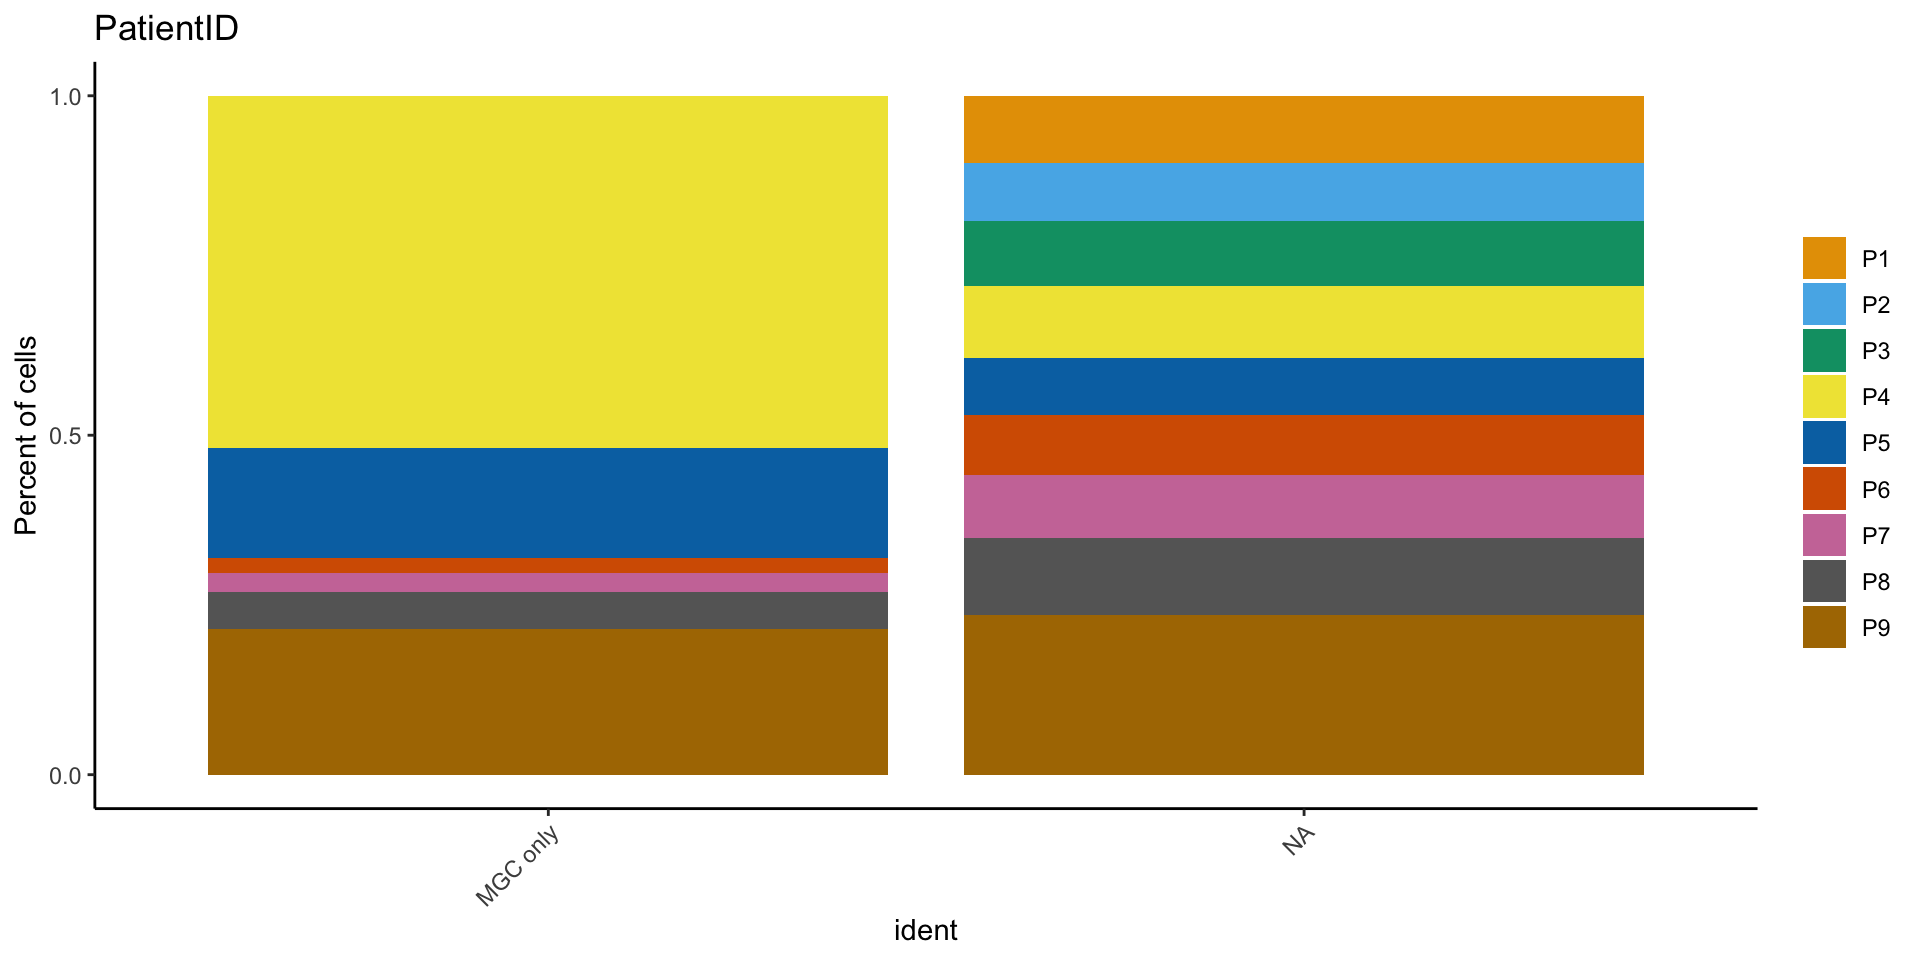
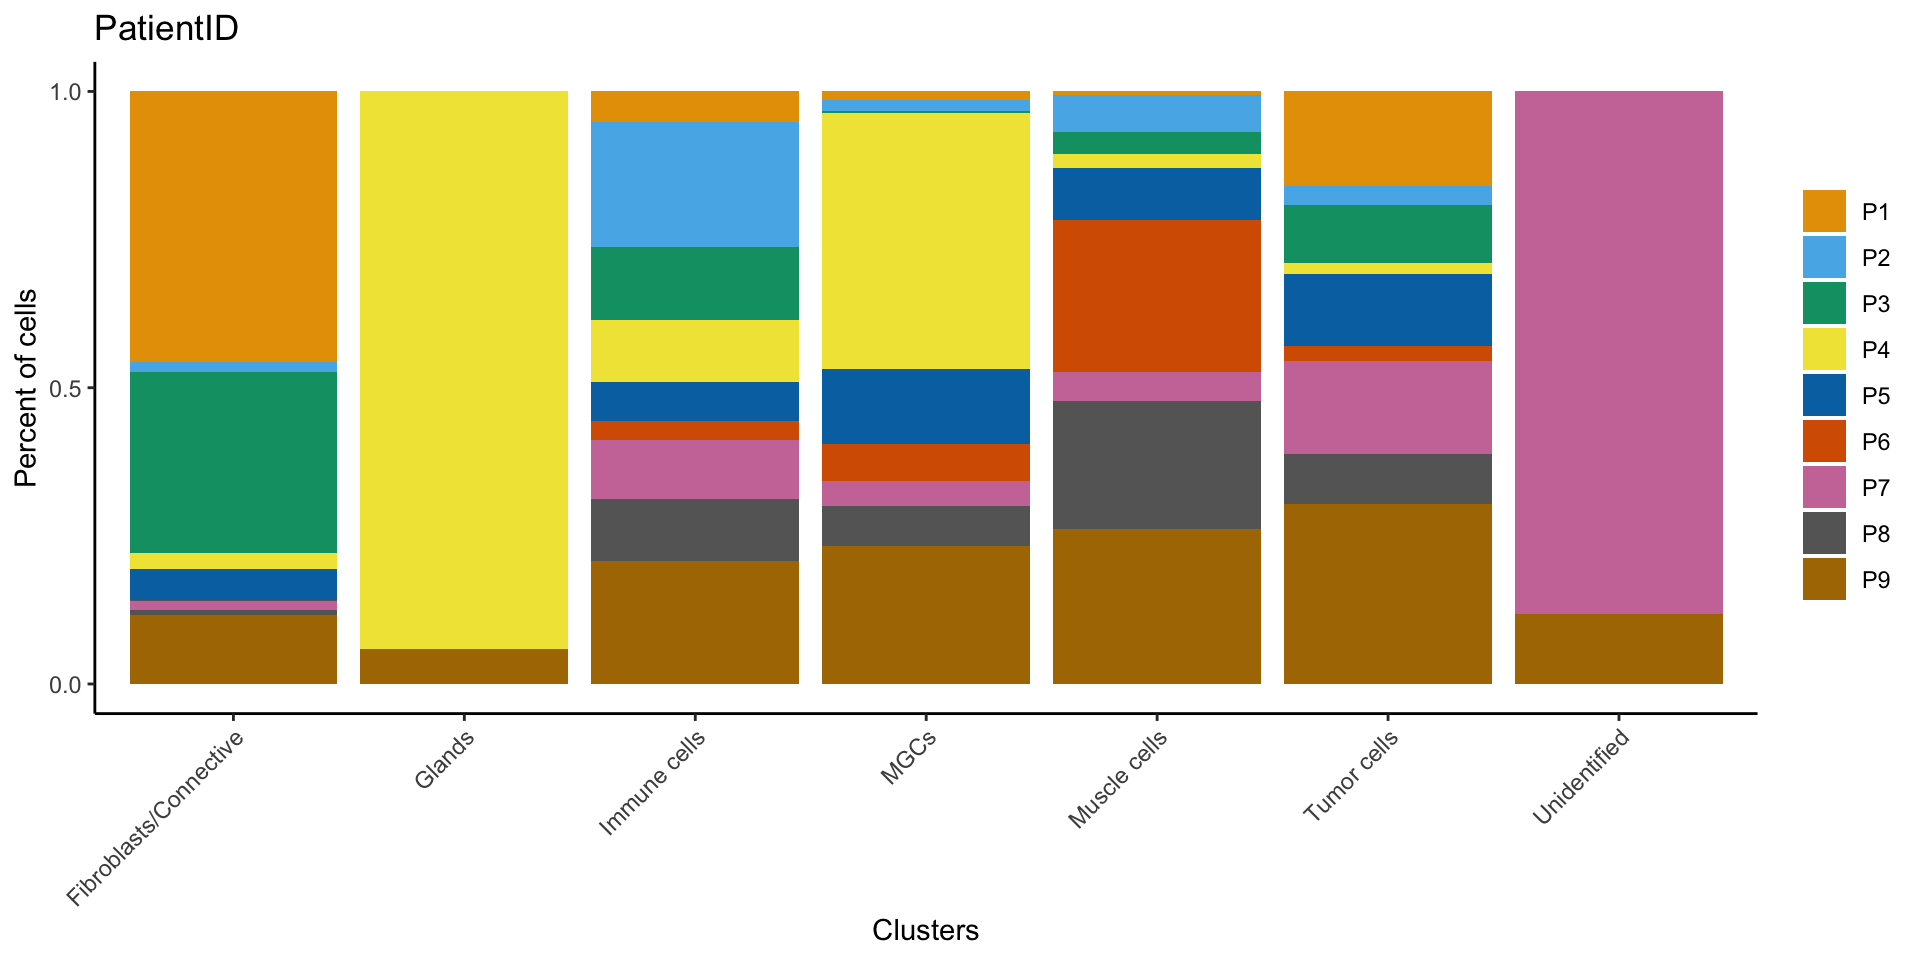
Update Visium Folder

diff --git a/Visium/index.html b/Visium/index.html
@@ -212,62 +212,62 @@ code span.wa { color: #60a0b0; font-weight: bold; font-style: italic; } /* Warni
 <span id="cb8-4"><a href="#cb8-4" aria-hidden="true" tabindex="-1"></a>Slide_B1<span class="sc">$</span>Batch <span class="ot">&lt;-</span> <span class="st">'B2'</span></span>
 <span id="cb8-5"><a href="#cb8-5" aria-hidden="true" tabindex="-1"></a>Slide_D1<span class="sc">$</span>Batch <span class="ot">&lt;-</span> <span class="st">'B3'</span></span>
 <span id="cb8-6"><a href="#cb8-6" aria-hidden="true" tabindex="-1"></a>Slide_C1<span class="sc">$</span>Batch <span class="ot">&lt;-</span> <span class="st">'B4'</span></span>
-<span id="cb8-7"><a href="#cb8-7" aria-hidden="true" tabindex="-1"></a>T4_S1_05H04724_09<span class="sc">$</span>Batch <span class="ot">&lt;-</span> <span class="st">'B5'</span></span>
-<span id="cb8-8"><a href="#cb8-8" aria-hidden="true" tabindex="-1"></a>T4_S2_10H02587_08<span class="sc">$</span>Batch <span class="ot">&lt;-</span> <span class="st">'B6'</span></span>
-<span id="cb8-9"><a href="#cb8-9" aria-hidden="true" tabindex="-1"></a>T4_S4_16H02168_56_Zone2<span class="sc">$</span>Batch <span class="ot">&lt;-</span> <span class="st">'B7'</span></span>
-<span id="cb8-10"><a href="#cb8-10" aria-hidden="true" tabindex="-1"></a>Test9_S2_13H02127_09<span class="sc">$</span>Batch <span class="ot">&lt;-</span> <span class="st">'B8'</span></span>
-<span id="cb8-11"><a href="#cb8-11" aria-hidden="true" tabindex="-1"></a>Test9_S1_05H00073_12<span class="sc">$</span>Batch <span class="ot">&lt;-</span> <span class="st">'B9'</span></span>
-<span id="cb8-12"><a href="#cb8-12" aria-hidden="true" tabindex="-1"></a>Test9_S3_21R00383_Zone1<span class="sc">$</span>Batch <span class="ot">&lt;-</span> <span class="st">'B10'</span></span>
-<span id="cb8-13"><a href="#cb8-13" aria-hidden="true" tabindex="-1"></a>Test9_S3_21R00383_Zone2<span class="sc">$</span>Batch <span class="ot">&lt;-</span> <span class="st">'B11'</span></span>
+<span id="cb8-7"><a href="#cb8-7" aria-hidden="true" tabindex="-1"></a>Slide_E1<span class="sc">$</span>Batch <span class="ot">&lt;-</span> <span class="st">'B5'</span></span>
+<span id="cb8-8"><a href="#cb8-8" aria-hidden="true" tabindex="-1"></a>Slide_F1<span class="sc">$</span>Batch <span class="ot">&lt;-</span> <span class="st">'B6'</span></span>
+<span id="cb8-9"><a href="#cb8-9" aria-hidden="true" tabindex="-1"></a>Slide_G1<span class="sc">$</span>Batch <span class="ot">&lt;-</span> <span class="st">'B7'</span></span>
+<span id="cb8-10"><a href="#cb8-10" aria-hidden="true" tabindex="-1"></a>Slide_H1<span class="sc">$</span>Batch <span class="ot">&lt;-</span> <span class="st">'B8'</span></span>
+<span id="cb8-11"><a href="#cb8-11" aria-hidden="true" tabindex="-1"></a>Slide_I1<span class="sc">$</span>Batch <span class="ot">&lt;-</span> <span class="st">'B9'</span></span>
+<span id="cb8-12"><a href="#cb8-12" aria-hidden="true" tabindex="-1"></a>Slide_I2<span class="sc">$</span>Batch <span class="ot">&lt;-</span> <span class="st">'B10'</span></span>
+<span id="cb8-13"><a href="#cb8-13" aria-hidden="true" tabindex="-1"></a>Slide_I3<span class="sc">$</span>Batch <span class="ot">&lt;-</span> <span class="st">'B11'</span></span>
 <span id="cb8-14"><a href="#cb8-14" aria-hidden="true" tabindex="-1"></a><span class="co">#Patient ID Metadata</span></span>
 <span id="cb8-15"><a href="#cb8-15" aria-hidden="true" tabindex="-1"></a>Slide_A1<span class="sc">$</span>PatientID <span class="ot">&lt;-</span> <span class="st">'P1'</span></span>
 <span id="cb8-16"><a href="#cb8-16" aria-hidden="true" tabindex="-1"></a>Slide_B1<span class="sc">$</span>PatientID <span class="ot">&lt;-</span> <span class="st">'P2'</span></span>
 <span id="cb8-17"><a href="#cb8-17" aria-hidden="true" tabindex="-1"></a>Slide_D1<span class="sc">$</span>PatientID <span class="ot">&lt;-</span> <span class="st">'P3'</span></span>
 <span id="cb8-18"><a href="#cb8-18" aria-hidden="true" tabindex="-1"></a>Slide_C1<span class="sc">$</span>PatientID <span class="ot">&lt;-</span> <span class="st">'P4'</span></span>
-<span id="cb8-19"><a href="#cb8-19" aria-hidden="true" tabindex="-1"></a>T4_S1_05H04724_09<span class="sc">$</span>PatientID <span class="ot">&lt;-</span> <span class="st">'P5'</span></span>
-<span id="cb8-20"><a href="#cb8-20" aria-hidden="true" tabindex="-1"></a>T4_S2_10H02587_08<span class="sc">$</span>PatientID <span class="ot">&lt;-</span> <span class="st">'P6'</span></span>
-<span id="cb8-21"><a href="#cb8-21" aria-hidden="true" tabindex="-1"></a>T4_S4_16H02168_56_Zone2<span class="sc">$</span>PatientID <span class="ot">&lt;-</span> <span class="st">'P7'</span></span>
-<span id="cb8-22"><a href="#cb8-22" aria-hidden="true" tabindex="-1"></a>Test9_S2_13H02127_09<span class="sc">$</span>PatientID <span class="ot">&lt;-</span> <span class="st">'P8'</span></span>
-<span id="cb8-23"><a href="#cb8-23" aria-hidden="true" tabindex="-1"></a>Test9_S1_05H00073_12<span class="sc">$</span>PatientID <span class="ot">&lt;-</span> <span class="st">'P9'</span></span>
-<span id="cb8-24"><a href="#cb8-24" aria-hidden="true" tabindex="-1"></a>Test9_S3_21R00383_Zone1<span class="sc">$</span>PatientID <span class="ot">&lt;-</span> <span class="st">'P9'</span></span>
-<span id="cb8-25"><a href="#cb8-25" aria-hidden="true" tabindex="-1"></a>Test9_S3_21R00383_Zone2<span class="sc">$</span>PatientID <span class="ot">&lt;-</span> <span class="st">'P9'</span></span>
+<span id="cb8-19"><a href="#cb8-19" aria-hidden="true" tabindex="-1"></a>Slide_E1<span class="sc">$</span>PatientID <span class="ot">&lt;-</span> <span class="st">'P5'</span></span>
+<span id="cb8-20"><a href="#cb8-20" aria-hidden="true" tabindex="-1"></a>Slide_F1<span class="sc">$</span>PatientID <span class="ot">&lt;-</span> <span class="st">'P6'</span></span>
+<span id="cb8-21"><a href="#cb8-21" aria-hidden="true" tabindex="-1"></a>Slide_G1<span class="sc">$</span>PatientID <span class="ot">&lt;-</span> <span class="st">'P7'</span></span>
+<span id="cb8-22"><a href="#cb8-22" aria-hidden="true" tabindex="-1"></a>Slide_H1<span class="sc">$</span>PatientID <span class="ot">&lt;-</span> <span class="st">'P8'</span></span>
+<span id="cb8-23"><a href="#cb8-23" aria-hidden="true" tabindex="-1"></a>Slide_I1<span class="sc">$</span>PatientID <span class="ot">&lt;-</span> <span class="st">'P9'</span></span>
+<span id="cb8-24"><a href="#cb8-24" aria-hidden="true" tabindex="-1"></a>Slide_I2<span class="sc">$</span>PatientID <span class="ot">&lt;-</span> <span class="st">'P9'</span></span>
+<span id="cb8-25"><a href="#cb8-25" aria-hidden="true" tabindex="-1"></a>Slide_I3<span class="sc">$</span>PatientID <span class="ot">&lt;-</span> <span class="st">'P9'</span></span>
 <span id="cb8-26"><a href="#cb8-26" aria-hidden="true" tabindex="-1"></a><span class="co">#MGC Metadata</span></span>
 <span id="cb8-27"><a href="#cb8-27" aria-hidden="true" tabindex="-1"></a>Slide_A1<span class="sc">$</span>MGC <span class="ot">&lt;-</span> <span class="st">'MGC Low'</span></span>
 <span id="cb8-28"><a href="#cb8-28" aria-hidden="true" tabindex="-1"></a>Slide_B1<span class="sc">$</span>MGC <span class="ot">&lt;-</span> <span class="st">'MGC Low'</span></span>
 <span id="cb8-29"><a href="#cb8-29" aria-hidden="true" tabindex="-1"></a>Slide_D1<span class="sc">$</span>MGC <span class="ot">&lt;-</span> <span class="st">'MGC Low'</span></span>
 <span id="cb8-30"><a href="#cb8-30" aria-hidden="true" tabindex="-1"></a>Slide_C1<span class="sc">$</span>MGC <span class="ot">&lt;-</span> <span class="st">'MGC High'</span></span>
-<span id="cb8-31"><a href="#cb8-31" aria-hidden="true" tabindex="-1"></a>T4_S1_05H04724_09<span class="sc">$</span>MGC <span class="ot">&lt;-</span> <span class="st">'MGC High'</span></span>
-<span id="cb8-32"><a href="#cb8-32" aria-hidden="true" tabindex="-1"></a>T4_S2_10H02587_08<span class="sc">$</span>MGC <span class="ot">&lt;-</span> <span class="st">'MGC High'</span></span>
-<span id="cb8-33"><a href="#cb8-33" aria-hidden="true" tabindex="-1"></a>T4_S4_16H02168_56_Zone2<span class="sc">$</span>MGC <span class="ot">&lt;-</span> <span class="st">'MGC High'</span></span>
-<span id="cb8-34"><a href="#cb8-34" aria-hidden="true" tabindex="-1"></a>Test9_S2_13H02127_09<span class="sc">$</span>MGC <span class="ot">&lt;-</span> <span class="st">'MGC High'</span></span>
-<span id="cb8-35"><a href="#cb8-35" aria-hidden="true" tabindex="-1"></a>Test9_S1_05H00073_12<span class="sc">$</span>MGC <span class="ot">&lt;-</span> <span class="st">'MGC High'</span></span>
-<span id="cb8-36"><a href="#cb8-36" aria-hidden="true" tabindex="-1"></a>Test9_S3_21R00383_Zone1<span class="sc">$</span>MGC <span class="ot">&lt;-</span> <span class="st">'MGC High'</span></span>
-<span id="cb8-37"><a href="#cb8-37" aria-hidden="true" tabindex="-1"></a>Test9_S3_21R00383_Zone2<span class="sc">$</span>MGC <span class="ot">&lt;-</span> <span class="st">'MGC High'</span></span>
+<span id="cb8-31"><a href="#cb8-31" aria-hidden="true" tabindex="-1"></a>Slide_E1<span class="sc">$</span>MGC <span class="ot">&lt;-</span> <span class="st">'MGC High'</span></span>
+<span id="cb8-32"><a href="#cb8-32" aria-hidden="true" tabindex="-1"></a>Slide_F1<span class="sc">$</span>MGC <span class="ot">&lt;-</span> <span class="st">'MGC High'</span></span>
+<span id="cb8-33"><a href="#cb8-33" aria-hidden="true" tabindex="-1"></a>Slide_G1<span class="sc">$</span>MGC <span class="ot">&lt;-</span> <span class="st">'MGC High'</span></span>
+<span id="cb8-34"><a href="#cb8-34" aria-hidden="true" tabindex="-1"></a>Slide_H1<span class="sc">$</span>MGC <span class="ot">&lt;-</span> <span class="st">'MGC High'</span></span>
+<span id="cb8-35"><a href="#cb8-35" aria-hidden="true" tabindex="-1"></a>Slide_I1<span class="sc">$</span>MGC <span class="ot">&lt;-</span> <span class="st">'MGC High'</span></span>
+<span id="cb8-36"><a href="#cb8-36" aria-hidden="true" tabindex="-1"></a>Slide_I2<span class="sc">$</span>MGC <span class="ot">&lt;-</span> <span class="st">'MGC High'</span></span>
+<span id="cb8-37"><a href="#cb8-37" aria-hidden="true" tabindex="-1"></a>Slide_I3<span class="sc">$</span>MGC <span class="ot">&lt;-</span> <span class="st">'MGC High'</span></span>
 <span id="cb8-38"><a href="#cb8-38" aria-hidden="true" tabindex="-1"></a><span class="co">#MGC Spot Annotations - Pathologist</span></span>
 <span id="cb8-39"><a href="#cb8-39" aria-hidden="true" tabindex="-1"></a>Slide_A1<span class="sc">$</span>MGC_Spot_Only <span class="ot">&lt;-</span> <span class="cn">NA</span></span>
 <span id="cb8-40"><a href="#cb8-40" aria-hidden="true" tabindex="-1"></a>Slide_B1<span class="sc">$</span>MGC_Spot_Only <span class="ot">&lt;-</span> <span class="cn">NA</span></span>
 <span id="cb8-41"><a href="#cb8-41" aria-hidden="true" tabindex="-1"></a>Slide_D1<span class="sc">$</span>MGC_Spot_Only <span class="ot">&lt;-</span> <span class="cn">NA</span></span>
 <span id="cb8-42"><a href="#cb8-42" aria-hidden="true" tabindex="-1"></a>Slide_C1<span class="sc">$</span>MGC_Spot_Only <span class="ot">&lt;-</span> MGC_C1.csv<span class="sc">$</span>MGC</span>
-<span id="cb8-43"><a href="#cb8-43" aria-hidden="true" tabindex="-1"></a>T4_S1_05H04724_09<span class="sc">$</span>MGC_Spot_Only <span class="ot">&lt;-</span> MGC_050H04724.csv<span class="sc">$</span>MGC</span>
-<span id="cb8-44"><a href="#cb8-44" aria-hidden="true" tabindex="-1"></a>T4_S2_10H02587_08<span class="sc">$</span>MGC_Spot_Only <span class="ot">&lt;-</span> <span class="st">`</span><span class="at">MGC_C1_10H02587-08.csv</span><span class="st">`</span><span class="sc">$</span>MGC</span>
-<span id="cb8-45"><a href="#cb8-45" aria-hidden="true" tabindex="-1"></a>T4_S4_16H02168_56_Zone2<span class="sc">$</span>MGC_Spot_Only <span class="ot">&lt;-</span> <span class="st">`</span><span class="at">MGC_D1_16H02168-56-z01.csv</span><span class="st">`</span><span class="sc">$</span>MGC</span>
-<span id="cb8-46"><a href="#cb8-46" aria-hidden="true" tabindex="-1"></a>Test9_S2_13H02127_09<span class="sc">$</span>MGC_Spot_Only <span class="ot">&lt;-</span> <span class="st">`</span><span class="at">MGC_B1_13H02127-09..csv</span><span class="st">`</span><span class="sc">$</span>MGC</span>
-<span id="cb8-47"><a href="#cb8-47" aria-hidden="true" tabindex="-1"></a>Test9_S1_05H00073_12<span class="sc">$</span>MGC_Spot_Only <span class="ot">&lt;-</span> <span class="cn">NA</span></span>
-<span id="cb8-48"><a href="#cb8-48" aria-hidden="true" tabindex="-1"></a>Test9_S3_21R00383_Zone1<span class="sc">$</span>MGC_Spot_Only <span class="ot">&lt;-</span> <span class="st">`</span><span class="at">MGC_C1_16H02168-56-z02.csv</span><span class="st">`</span><span class="sc">$</span>MGC</span>
-<span id="cb8-49"><a href="#cb8-49" aria-hidden="true" tabindex="-1"></a>Test9_S3_21R00383_Zone2<span class="sc">$</span>MGC_Spot_Only <span class="ot">&lt;-</span> <span class="st">`</span><span class="at">MGC_D1_16H02168-56-z01_V2.csv</span><span class="st">`</span><span class="sc">$</span>MGC</span></code><button title="Copy to Clipboard" class="code-copy-button"><i class="bi"></i></button></pre></div>
+<span id="cb8-43"><a href="#cb8-43" aria-hidden="true" tabindex="-1"></a>Slide_E1<span class="sc">$</span>MGC_Spot_Only <span class="ot">&lt;-</span> MGC_050H04724.csv<span class="sc">$</span>MGC</span>
+<span id="cb8-44"><a href="#cb8-44" aria-hidden="true" tabindex="-1"></a>Slide_F1<span class="sc">$</span>MGC_Spot_Only <span class="ot">&lt;-</span> <span class="st">`</span><span class="at">MGC_C1_10H02587-08.csv</span><span class="st">`</span><span class="sc">$</span>MGC</span>
+<span id="cb8-45"><a href="#cb8-45" aria-hidden="true" tabindex="-1"></a>Slide_G1<span class="sc">$</span>MGC_Spot_Only <span class="ot">&lt;-</span> <span class="st">`</span><span class="at">MGC_D1_16H02168-56-z01.csv</span><span class="st">`</span><span class="sc">$</span>MGC</span>
+<span id="cb8-46"><a href="#cb8-46" aria-hidden="true" tabindex="-1"></a>Slide_H1<span class="sc">$</span>MGC_Spot_Only <span class="ot">&lt;-</span> <span class="st">`</span><span class="at">MGC_B1_13H02127-09..csv</span><span class="st">`</span><span class="sc">$</span>MGC</span>
+<span id="cb8-47"><a href="#cb8-47" aria-hidden="true" tabindex="-1"></a>Slide_I1<span class="sc">$</span>MGC_Spot_Only <span class="ot">&lt;-</span> <span class="cn">NA</span></span>
+<span id="cb8-48"><a href="#cb8-48" aria-hidden="true" tabindex="-1"></a>Slide_I2<span class="sc">$</span>MGC_Spot_Only <span class="ot">&lt;-</span> <span class="st">`</span><span class="at">MGC_C1_16H02168-56-z02.csv</span><span class="st">`</span><span class="sc">$</span>MGC</span>
+<span id="cb8-49"><a href="#cb8-49" aria-hidden="true" tabindex="-1"></a>Slide_I3<span class="sc">$</span>MGC_Spot_Only <span class="ot">&lt;-</span> <span class="st">`</span><span class="at">MGC_D1_16H02168-56-z01_V2.csv</span><span class="st">`</span><span class="sc">$</span>MGC</span></code><button title="Copy to Clipboard" class="code-copy-button"><i class="bi"></i></button></pre></div>
 </div>
 <div class="cell">
 <div class="sourceCode cell-code" id="cb9"><pre class="sourceCode r code-with-copy"><code class="sourceCode r"><span id="cb9-1"><a href="#cb9-1" aria-hidden="true" tabindex="-1"></a><span class="co">#Merging different slides</span></span>
 <span id="cb9-2"><a href="#cb9-2" aria-hidden="true" tabindex="-1"></a>Visium <span class="ot">&lt;-</span> <span class="fu">merge</span>(Slide_A1, <span class="at">y =</span> <span class="fu">c</span>(Slide_B1,</span>
 <span id="cb9-3"><a href="#cb9-3" aria-hidden="true" tabindex="-1"></a>                                Slide_C1,</span>
 <span id="cb9-4"><a href="#cb9-4" aria-hidden="true" tabindex="-1"></a>                                Slide_D1,</span>
-<span id="cb9-5"><a href="#cb9-5" aria-hidden="true" tabindex="-1"></a>                                T4_S1_05H04724_09,</span>
-<span id="cb9-6"><a href="#cb9-6" aria-hidden="true" tabindex="-1"></a>                                T4_S2_10H02587_08,</span>
-<span id="cb9-7"><a href="#cb9-7" aria-hidden="true" tabindex="-1"></a>                                T4_S4_16H02168_56_Zone2,</span>
-<span id="cb9-8"><a href="#cb9-8" aria-hidden="true" tabindex="-1"></a>                                Test9_S1_05H00073_12,</span>
-<span id="cb9-9"><a href="#cb9-9" aria-hidden="true" tabindex="-1"></a>                                Test9_S2_13H02127_09,</span>
-<span id="cb9-10"><a href="#cb9-10" aria-hidden="true" tabindex="-1"></a>                                Test9_S3_21R00383_Zone1,</span>
-<span id="cb9-11"><a href="#cb9-11" aria-hidden="true" tabindex="-1"></a>                                Test9_S3_21R00383_Zone2))</span></code><button title="Copy to Clipboard" class="code-copy-button"><i class="bi"></i></button></pre></div>
+<span id="cb9-5"><a href="#cb9-5" aria-hidden="true" tabindex="-1"></a>                                Slide_E1,</span>
+<span id="cb9-6"><a href="#cb9-6" aria-hidden="true" tabindex="-1"></a>                                Slide_F1,</span>
+<span id="cb9-7"><a href="#cb9-7" aria-hidden="true" tabindex="-1"></a>                                Slide_G1,</span>
+<span id="cb9-8"><a href="#cb9-8" aria-hidden="true" tabindex="-1"></a>                                Slide_H1,</span>
+<span id="cb9-9"><a href="#cb9-9" aria-hidden="true" tabindex="-1"></a>                                Slide_I1,</span>
+<span id="cb9-10"><a href="#cb9-10" aria-hidden="true" tabindex="-1"></a>                                Slide_I2,</span>
+<span id="cb9-11"><a href="#cb9-11" aria-hidden="true" tabindex="-1"></a>                                Slide_I3))</span></code><button title="Copy to Clipboard" class="code-copy-button"><i class="bi"></i></button></pre></div>
 <div class="cell-output cell-output-stderr">
 <pre><code>Warning in CheckDuplicateCellNames(object.list = objects): Some cell names are
 duplicated across objects provided. Renaming to enforce unique cell names.</code></pre>
@@ -530,7 +530,7 @@ non-zero p-value...</code></pre>
 <span id="cb32-3"><a href="#cb32-3" aria-hidden="true" tabindex="-1"></a>Visium.combined.sct<span class="sc">$</span>MGC_Spot_Only[Visium.combined.sct<span class="sc">$</span>MGC_Spot_Only <span class="sc">!=</span> <span class="st">'MGC only'</span>] <span class="ot">&lt;-</span> <span class="st">'NA'</span></span></code><button title="Copy to Clipboard" class="code-copy-button"><i class="bi"></i></button></pre></div>
 </div>
 <div class="cell">
-<div class="sourceCode cell-code" id="cb33"><pre class="sourceCode r code-with-copy"><code class="sourceCode r"><span id="cb33-1"><a href="#cb33-1" aria-hidden="true" tabindex="-1"></a>Visium.combined.sct <span class="ot">&lt;-</span> <span class="fu">readRDS</span>(<span class="at">file =</span> <span class="st">'immune.combined.sct.rds'</span>)</span></code><button title="Copy to Clipboard" class="code-copy-button"><i class="bi"></i></button></pre></div>
+<div class="sourceCode cell-code" id="cb33"><pre class="sourceCode r code-with-copy"><code class="sourceCode r"><span id="cb33-1"><a href="#cb33-1" aria-hidden="true" tabindex="-1"></a>Visium.combined.sct <span class="ot">&lt;-</span> <span class="fu">readRDS</span>(<span class="at">file =</span> <span class="st">'Visium.combined.sct.rds'</span>)</span></code><button title="Copy to Clipboard" class="code-copy-button"><i class="bi"></i></button></pre></div>
 </div>
 <div class="cell">
 <div class="sourceCode cell-code" id="cb34"><pre class="sourceCode r code-with-copy"><code class="sourceCode r"><span id="cb34-1"><a href="#cb34-1" aria-hidden="true" tabindex="-1"></a>colors <span class="ot">&lt;-</span> <span class="fu">c</span>(<span class="st">'Muscle cells'</span> <span class="ot">=</span> <span class="st">"#DE9ED6"</span>,</span>
@@ -686,7 +686,7 @@ plot all cells in gradient color palette.
 </div>
 </div>
 <div class="cell">
-<div class="sourceCode cell-code" id="cb64"><pre class="sourceCode r code-with-copy"><code class="sourceCode r"><span id="cb64-1"><a href="#cb64-1" aria-hidden="true" tabindex="-1"></a><span class="fu">dittoBarPlot</span>(Visium.combined.sct,<span class="at">var =</span> <span class="st">'PatientID'</span>,<span class="at">group.by =</span> <span class="st">'ident'</span>,<span class="at">scale =</span> <span class="st">'percent'</span>)</span></code><button title="Copy to Clipboard" class="code-copy-button"><i class="bi"></i></button></pre></div>
+<div class="sourceCode cell-code" id="cb64"><pre class="sourceCode r code-with-copy"><code class="sourceCode r"><span id="cb64-1"><a href="#cb64-1" aria-hidden="true" tabindex="-1"></a><span class="fu">dittoBarPlot</span>(Visium.combined.sct,<span class="at">var =</span> <span class="st">'PatientID'</span>,<span class="at">group.by =</span> <span class="st">'Clusters'</span>,<span class="at">scale =</span> <span class="st">'percent'</span>)</span></code><button title="Copy to Clipboard" class="code-copy-button"><i class="bi"></i></button></pre></div>
 <div class="cell-output-display">
 <p><img src="Visium_Analysis_files/figure-html/unnamed-chunk-31-1.png" class="img-fluid" width="960"></p>
 </div>
